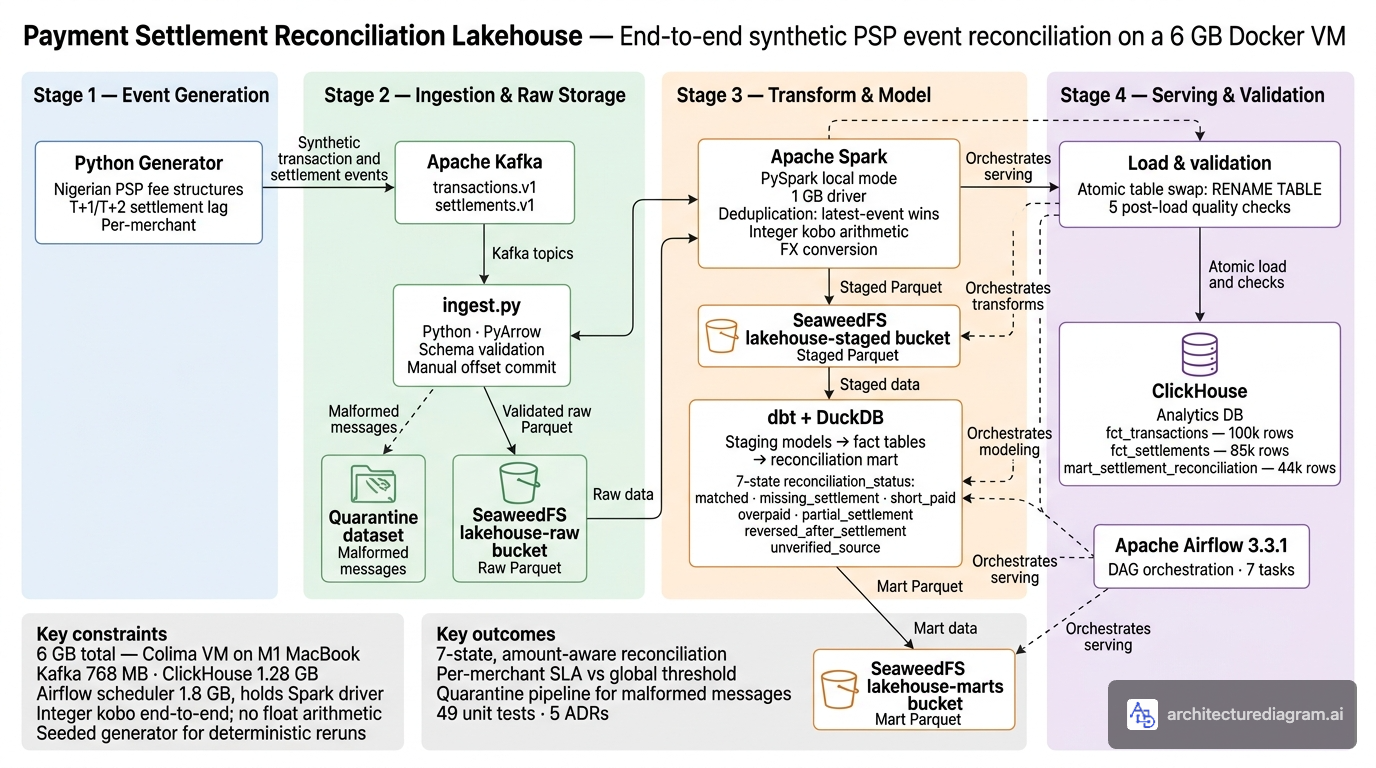
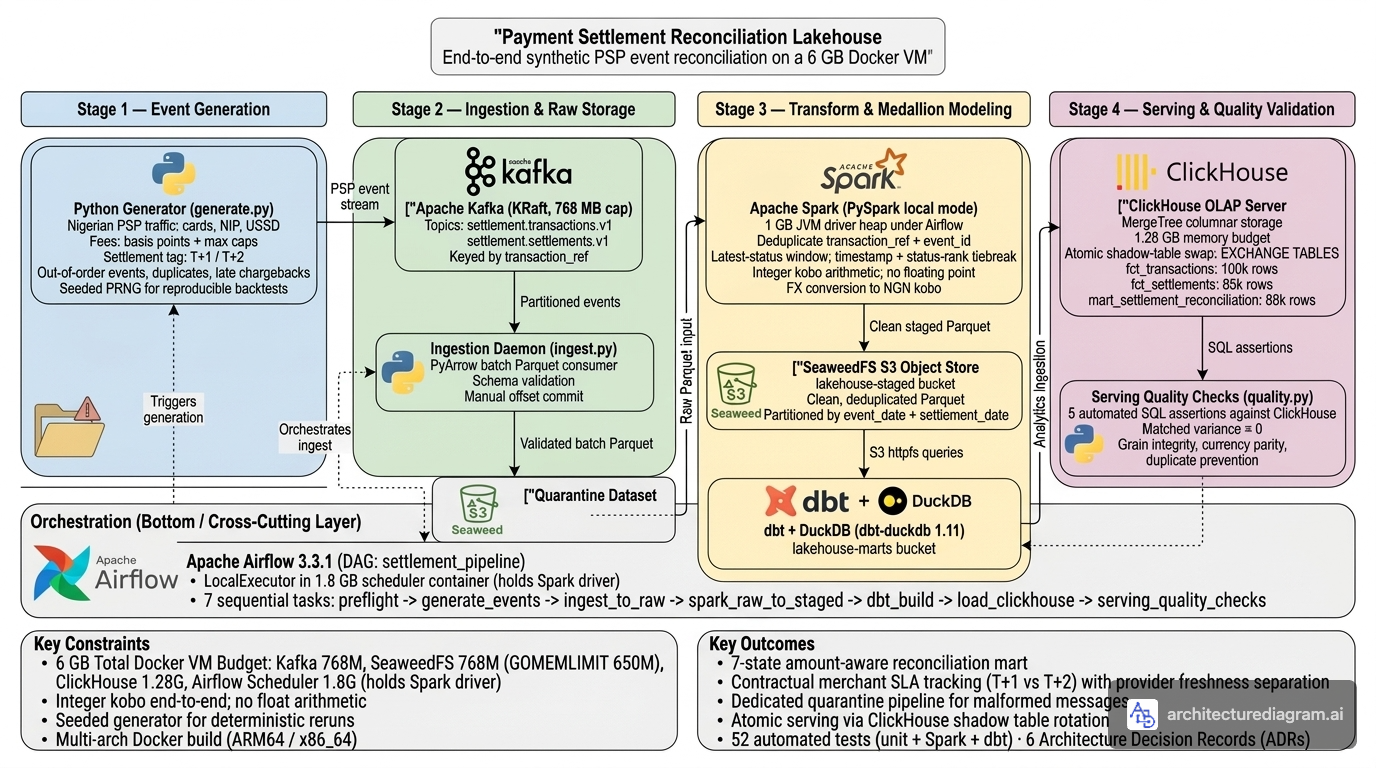
feat(v2): tune pipeline ingestion, Spark memory bounds, and ClickHouse serving for 1M scale

diff --git a/dags/settlement_pipeline.py b/dags/settlement_pipeline.py
@@ -18,6 +18,8 @@ import pendulum
 from airflow.providers.standard.operators.bash import BashOperator
 from airflow.sdk import dag, task
 
+from settlement.config import VOLUME_PRESETS
+
 DEFAULT_ARGS = {
     "owner": "data-platform",
     "retries": 1,
@@ -38,7 +40,9 @@ DEFAULT_ARGS = {
     default_args=DEFAULT_ARGS,
     tags=["settlement", "lakehouse", "portfolio"],
     params={
+        "preset": "",  # Presets: "50k", "500k", "1M" (leave empty to use event_count)
         "event_count": int(os.getenv("GEN_EVENT_COUNT", "50000")),
+        "chunk_size": int(os.getenv("GEN_CHUNK_SIZE", "50000")),
         "days": int(os.getenv("GEN_DAYS", "14")),
         "seed": int(os.getenv("GEN_SEED", "20260909")),
         # Bumping this makes the ingest task re-read the topics from the
@@ -81,34 +85,53 @@ def settlement_pipeline():
 
     @task
     def generate_events(**context) -> dict:
-        """Publish synthetic transaction and settlement events to Kafka."""
+        """Publish synthetic transaction and settlement events to Kafka in bounded chunks."""
         from settlement.config import get_settings
-        from settlement.generate import generate_events as gen
-        from settlement.generate import publish
+        from settlement.generate import generate_and_publish_chunked
 
         params = context["params"]
         if params["skip_generate"]:
             return {"skipped": True}
 
+        preset_key = str(params.get("preset", "")).strip()
+        if preset_key in VOLUME_PRESETS:
+            count = VOLUME_PRESETS[preset_key]
+        else:
+            count = int(params.get("event_count", 50_000))
+
+        chunk_size = int(params.get("chunk_size", 50_000))
+        days = int(params["days"])
+        seed = int(params["seed"])
+
         s = get_settings()
-        tx, stl = gen(
-            n_transactions=int(params["event_count"]),
-            days=int(params["days"]),
-            seed=int(params["seed"]),
+        totals = generate_and_publish_chunked(
+            n_transactions=count,
+            days=days,
+            seed=seed,
+            bootstrap=s.kafka_bootstrap,
+            topic_transactions=s.topic_transactions,
+            topic_settlements=s.topic_settlements,
+            chunk_size=chunk_size,
         )
-        published_tx = publish(tx, s.topic_transactions, s.kafka_bootstrap, "transaction_ref")
-        published_stl = publish(stl, s.topic_settlements, s.kafka_bootstrap, "transaction_ref")
-        return {"transactions": published_tx, "settlements": published_stl}
+        return {
+            "transactions": totals["transactions_delivered"],
+            "settlements": totals["settlements_delivered"],
+            "chunks": totals["chunks"],
+        }
 
     @task
     def ingest_to_raw(**context) -> dict:
         """Drain both topics into partitioned Parquet in the raw bucket."""
+        import os
+
         from settlement.config import get_settings
         from settlement.ingest import drain_topic
         from settlement.schemas import settlement_event_schema, transaction_event_schema
 
         s = get_settings()
         suffix = context["params"]["consumer_group_suffix"]
+        batch_rows = int(os.getenv("INGEST_BATCH_ROWS", "50000"))
+        idle_timeout_s = float(os.getenv("INGEST_IDLE_TIMEOUT_S", "12.0"))
         out = {}
         for topic, schema, dataset in (
             (s.topic_transactions, transaction_event_schema(), "transactions"),
@@ -120,6 +143,8 @@ def settlement_pipeline():
                 dataset=dataset,
                 settings=s,
                 group_id=f"settlement-ingest-{dataset}-{suffix}",
+                batch_rows=batch_rows,
+                idle_timeout_s=idle_timeout_s,
             )
         if sum(v["written"] for v in out.values()) == 0:
             raise RuntimeError(
@@ -133,9 +158,7 @@ def settlement_pipeline():
     def spark_raw_to_staged() -> dict:
         """Dedupe, collapse to one row per transaction, derive NGN amounts.
 
-        Runs in local mode inside this task's process. See the memory notes in
-        the .env file: the Spark driver heap lives under the Airflow
-        scheduler container's limit, which is why the scheduler gets 1.8 GB.
+        Runs in local mode inside this task's process. Sized for up to 1M scale.
         """
         import os
 
@@ -145,7 +168,7 @@ def settlement_pipeline():
         return run(
             get_settings(),
             driver_memory=os.getenv("SPARK_DRIVER_MEMORY", "1g"),
-            shuffle_partitions=int(os.getenv("SPARK_SHUFFLE_PARTITIONS", "8")),
+            shuffle_partitions=int(os.getenv("SPARK_SHUFFLE_PARTITIONS", "16")),
         )
 
     # dbt runs as a subprocess against its own virtualenv, never imported into

diff --git a/src/settlement/transform_spark.py b/src/settlement/transform_spark.py
@@ -76,24 +76,21 @@ def build_session(driver_memory: str, shuffle_partitions: int):
 
     return (
         SparkSession.builder.appName("settlement-raw-to-staged")
-        # local[2] instead of local[*]: all executor threads share the single
-        # driver JVM inside the 1.8 GB scheduler container. With 4 vCPUs the
-        # peak RSS of concurrent window-function shuffles exceeds the limit.
-        # Two threads halve in-flight memory at a modest throughput cost, which
-        # keeps the local pipeline within its 6 GB memory envelope.
+        # local[2] instead of local[*]: bounds executor concurrency so memory
+        # remains predictable and avoids executor shuffle spikes.
         .master("local[2]")
         .config("spark.driver.memory", driver_memory)
-        # The default of 200 shuffle partitions on a laptop produces 200 tiny
-        # files and spends more time on task overhead than on the actual work.
         .config("spark.sql.shuffle.partitions", str(shuffle_partitions))
         .config("spark.sql.adaptive.enabled", "true")
+        .config("spark.sql.adaptive.coalescePartitions.enabled", "true")
+        .config("spark.sql.adaptive.advisoryPartitionSizeInBytes", "33554432")
         .config("spark.sql.session.timeZone", "UTC")
         .config("spark.ui.enabled", "false")
         .config("spark.driver.host", "127.0.0.1")
-        # Reduce the fraction of heap Spark reserves for execution/storage so
-        # JVM metaspace + Python overhead fits within the container budget.
-        .config("spark.memory.fraction", "0.6")
-        .config("spark.memory.storageFraction", "0.3")
+        .config("spark.driver.maxResultSize", "512m")
+        .config("spark.cleaner.periodicGC.interval", "1min")
+        .config("spark.memory.fraction", "0.7")
+        .config("spark.memory.storageFraction", "0.2")
         .getOrCreate()
     )
 
@@ -232,7 +229,7 @@ def main() -> None:
     ap = argparse.ArgumentParser(description=__doc__)
     ap.add_argument("--driver-memory", default=os.getenv("SPARK_DRIVER_MEMORY", "1g"))
     ap.add_argument(
-        "--shuffle-partitions", type=int, default=int(os.getenv("SPARK_SHUFFLE_PARTITIONS", "8"))
+        "--shuffle-partitions", type=int, default=int(os.getenv("SPARK_SHUFFLE_PARTITIONS", "16"))
     )
     args = ap.parse_args()
 

diff --git a/src/settlement/serve.py b/src/settlement/serve.py
@@ -26,6 +26,7 @@ Two decisions worth defending:
 from __future__ import annotations
 
 import argparse
+import contextlib
 from dataclasses import dataclass
 
 from settlement.config import Settings, get_settings
@@ -82,7 +83,7 @@ def _client(settings: Settings):
         password=settings.clickhouse_password,
         # Do not pin the database here: the CREATE DATABASE below has to be
         # able to run before the database exists.
-        settings={"max_execution_time": 300},
+        settings={"max_execution_time": 600},
     )
 
 
@@ -112,7 +113,14 @@ def load_mart(client, settings: Settings, spec: MartSpec) -> dict:
     )
     client.command(
         f"INSERT INTO {shadow} "
-        "SETTINGS max_threads = 2, max_insert_block_size = 65536 "
+        "SETTINGS max_threads = 1, "
+        "max_insert_threads = 1, "
+        "input_format_parquet_enable_row_group_prefetch = 0, "
+        "remote_filesystem_read_prefetch = 0, "
+        "input_format_parquet_max_block_size = 32768, "
+        "max_insert_block_size = 32768, "
+        "min_insert_block_size_rows = 0, "
+        "min_insert_block_size_bytes = 0 "
         f"SELECT * FROM {s3}"
     )
     rows = client.command(f"SELECT count() FROM {shadow}")
@@ -137,6 +145,12 @@ def load_mart(client, settings: Settings, spec: MartSpec) -> dict:
     else:
         client.command(f"RENAME TABLE {shadow} TO {live}")
 
+    # Drop caches and purge memory between marts to stay under RSS limits
+    client.command("SYSTEM DROP MARK CACHE")
+    client.command("SYSTEM DROP UNCOMPRESSED CACHE")
+    with contextlib.suppress(Exception):
+        client.command("SYSTEM JEMALLOC PURGE")
+
     return {"table": spec.name, "rows": int(rows)}
 
 
@@ -145,6 +159,8 @@ def run(settings: Settings) -> list[dict]:
     client.command(f"CREATE DATABASE IF NOT EXISTS {settings.clickhouse_db}")
     client.command("SYSTEM DROP MARK CACHE")
     client.command("SYSTEM DROP UNCOMPRESSED CACHE")
+    with contextlib.suppress(Exception):
+        client.command("SYSTEM JEMALLOC PURGE")
     return [load_mart(client, settings, spec) for spec in MARTS]
 
 

diff --git a/src/settlement/ingest.py b/src/settlement/ingest.py
@@ -97,8 +97,8 @@ def drain_topic(
     settings: Settings,
     group_id: str,
     max_messages: int | None = None,
-    idle_timeout_s: float = 10.0,
-    batch_rows: int = 25_000,
+    idle_timeout_s: float = 12.0,
+    batch_rows: int = 50_000,
 ) -> dict:
     """Consume `topic` until it goes quiet, writing Parquet to the raw bucket."""
     from confluent_kafka import Consumer, KafkaError
@@ -112,6 +112,10 @@ def drain_topic(
             "enable.auto.commit": False,
             "max.poll.interval.ms": 300_000,
             "session.timeout.ms": 45_000,
+            # Throughput tuning for 500k-1M scale
+            "fetch.message.max.bytes": 10_485_760,
+            "max.partition.fetch.bytes": 5_242_880,
+            "queued.min.messages": 100_000,
         }
     )
     consumer.subscribe([topic])
@@ -208,7 +212,8 @@ def drain_topic(
 def main() -> None:
     ap = argparse.ArgumentParser(description=__doc__)
     ap.add_argument("--group-suffix", default="v1")
-    ap.add_argument("--idle-timeout", type=float, default=10.0)
+    ap.add_argument("--idle-timeout", type=float, default=12.0)
+    ap.add_argument("--batch-rows", type=int, default=50_000)
     args = ap.parse_args()
 
     s = get_settings()
@@ -224,6 +229,7 @@ def main() -> None:
             settings=s,
             group_id=f"settlement-ingest-{dataset}-{args.group_suffix}",
             idle_timeout_s=args.idle_timeout,
+            batch_rows=args.batch_rows,
         )
         print(f"{dataset}: {results[dataset]}")
 

diff --git a/tests/test_v2_scale.py b/tests/test_v2_scale.py
@@ -1,0 +1,26 @@
+from settlement.config import VOLUME_PRESETS, get_settings
+from settlement.serve import MARTS, _s3_expr
+
+
+def test_volume_presets_cover_targets():
+    assert VOLUME_PRESETS["50k"] == 50_000
+    assert VOLUME_PRESETS["500k"] == 500_000
+    assert VOLUME_PRESETS["1M"] == 1_000_000
+    assert VOLUME_PRESETS["1m"] == 1_000_000
+
+
+def test_s3_expr_generates_valid_collection_query():
+    settings = get_settings()
+    expr = _s3_expr(settings, "fct_transactions.parquet")
+    assert "s3(s3_lakehouse" in expr
+    assert "fct_transactions.parquet" in expr
+    assert "format = 'Parquet'" in expr
+
+
+def test_marts_spec_covers_all_required_tables():
+    mart_names = [m.name for m in MARTS]
+    assert "fct_transactions" in mart_names
+    assert "fct_settlements" in mart_names
+    assert "mart_settlement_reconciliation" in mart_names
+    assert "mart_merchant_daily" in mart_names
+    assert "mart_channel_performance" in mart_names

diff --git a/src/settlement/config.py b/src/settlement/config.py
@@ -69,5 +69,14 @@ class Settings:
         )
 
 
+VOLUME_PRESETS: dict[str, int] = {
+    "50k": 50_000,
+    "500k": 500_000,
+    "1M": 1_000_000,
+    "1m": 1_000_000,
+}
+
+
 def get_settings() -> Settings:
     return Settings()
+
